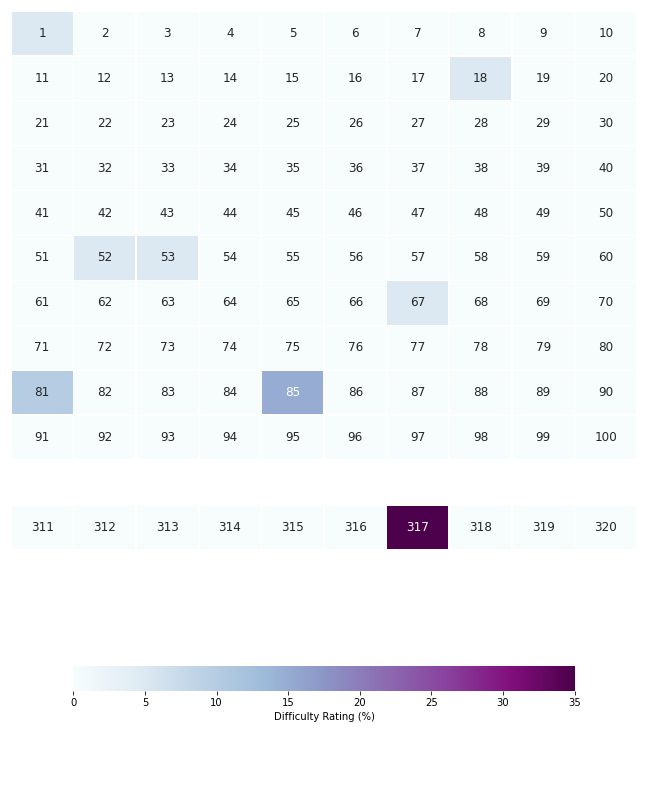
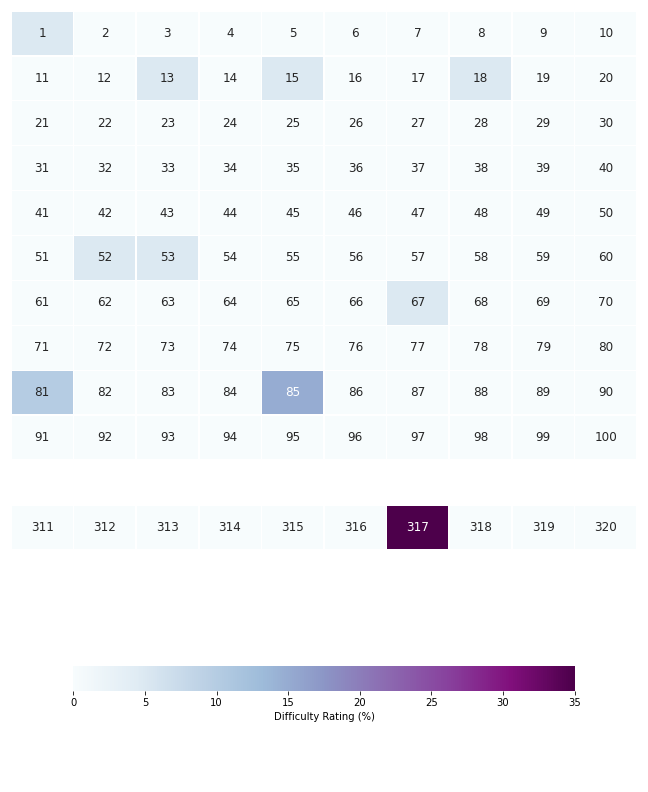
updates to heatmap

Changed region(s): [[0.4012, 0.0606, 0.5247, 0.1515], [0.1852, 0.0606, 0.3086, 0.1515]]

diff --git a/make_progress_hmap.py b/make_progress_hmap.py
@@ -57,6 +57,7 @@ def main(progress):
     plt.savefig('progress_heatmap.png')
 
     return None
+    
 def make_hmap():
 
     return None
@@ -64,6 +65,8 @@ def make_hmap():
 if __name__ == "__main__":
 
     progress = {  '1': [  1, 5],
+                 '13': [ 13, 5],
+                 '15': [ 15, 5],
                  '18': [ 18, 5],
                  '52': [ 52, 5],
                  '53': [ 53, 5],
